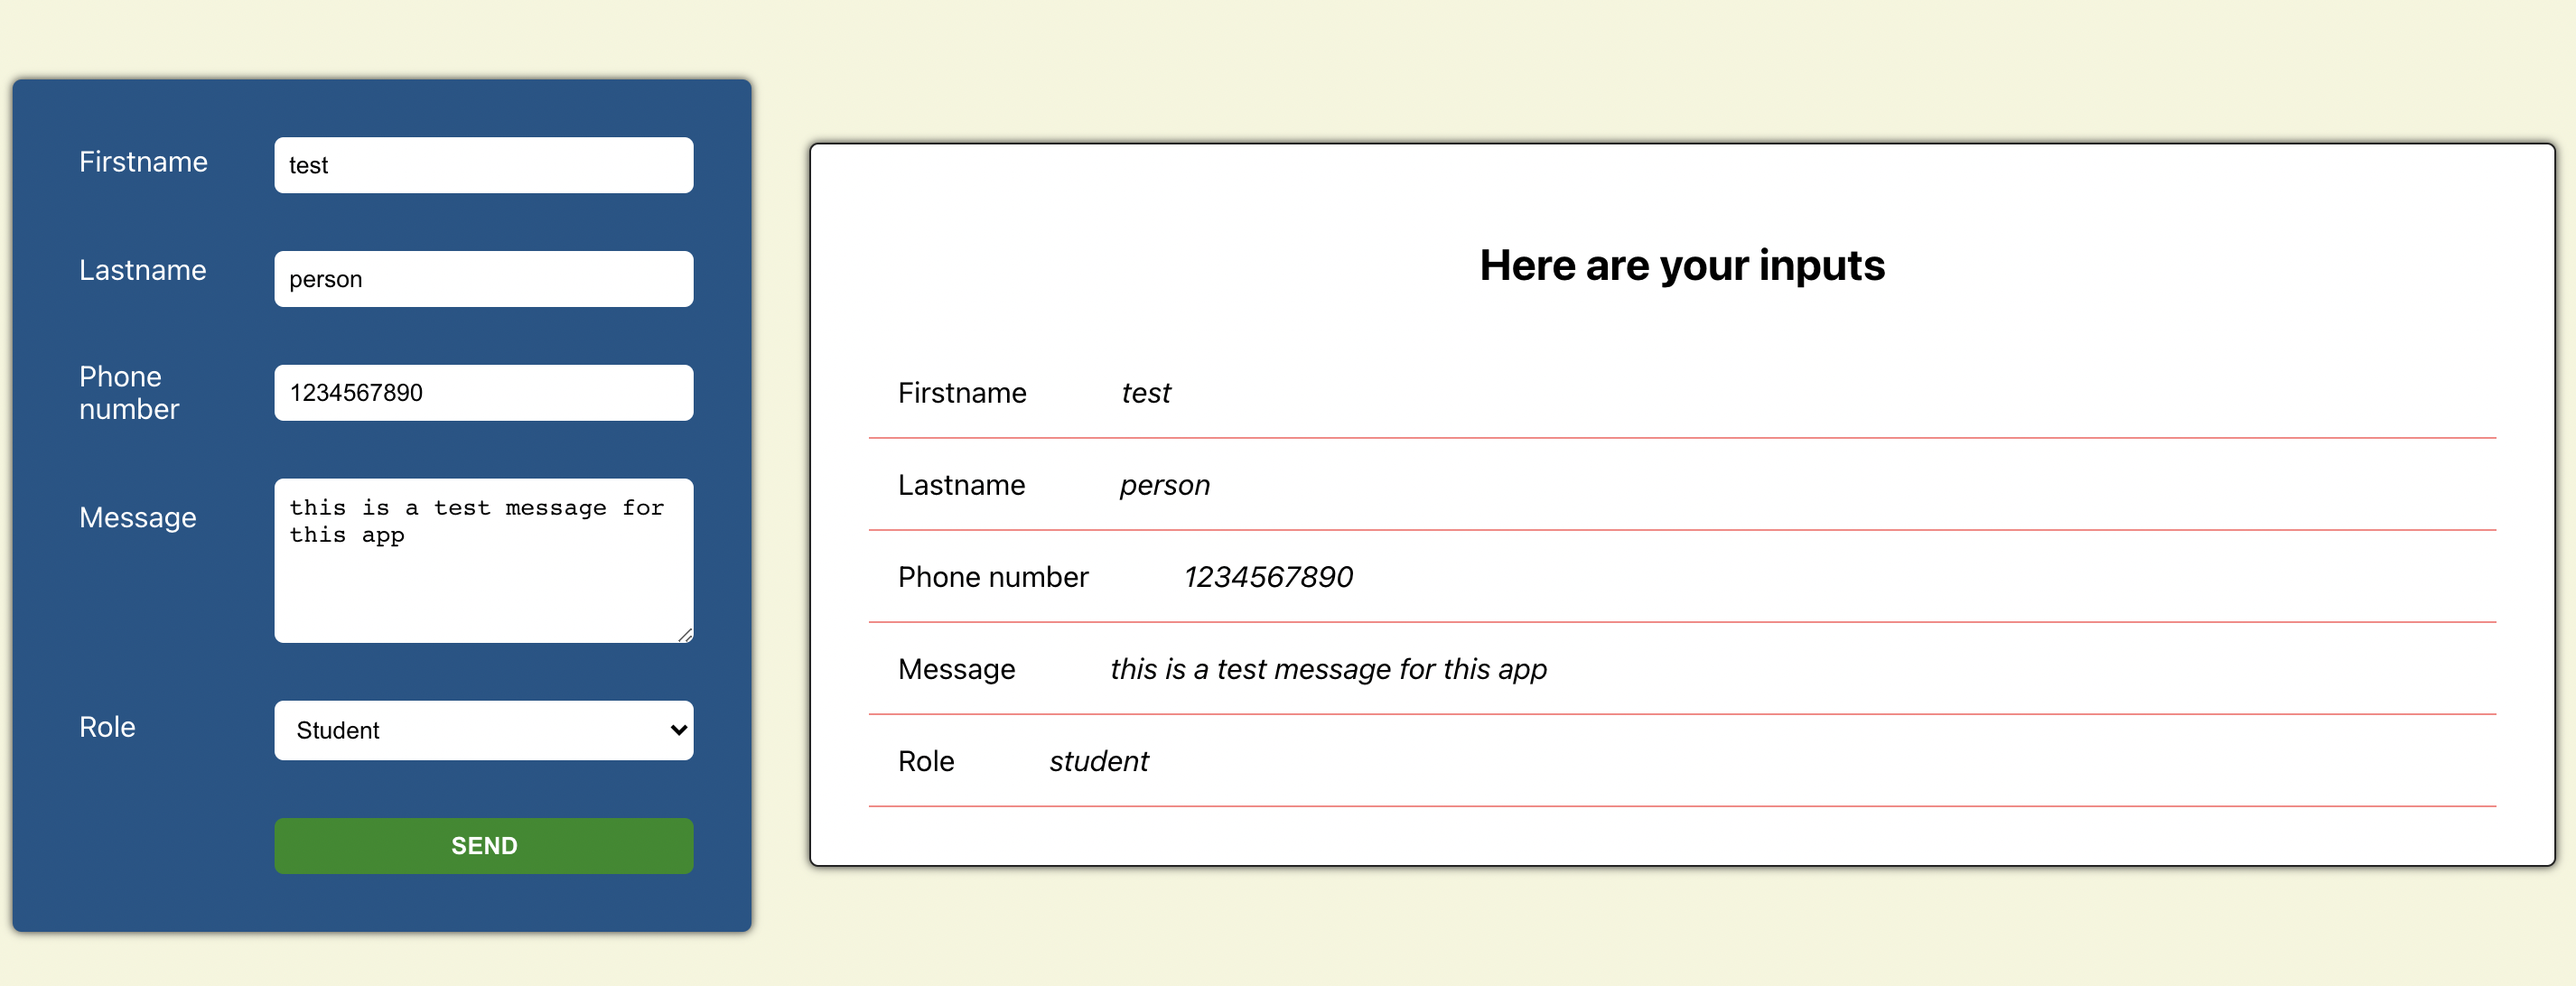
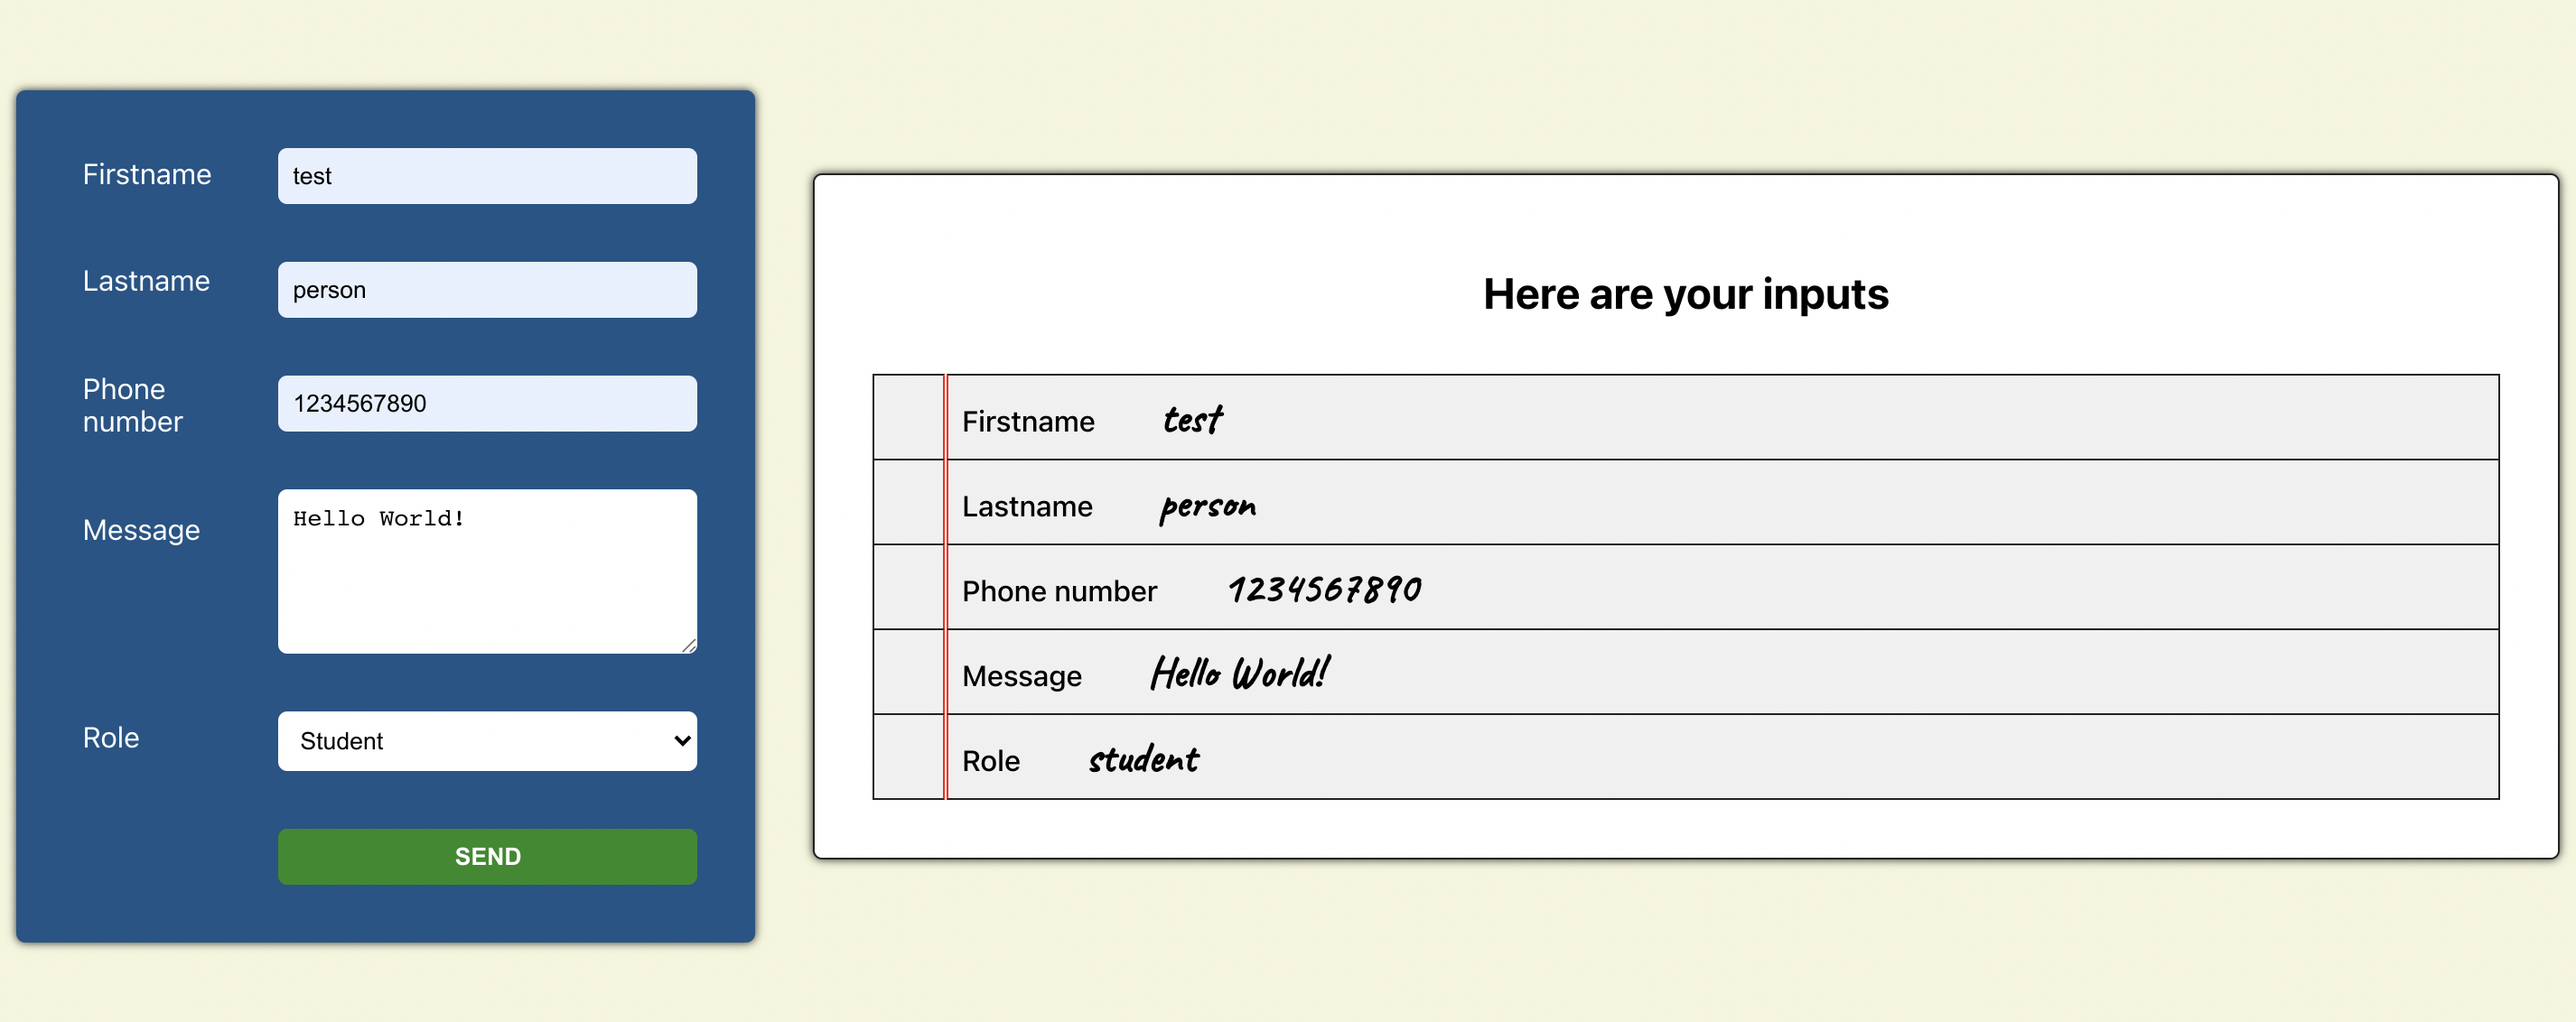
added new screenshot and modified layouts

diff --git a/src/App.css b/src/App.css
@@ -38,7 +38,7 @@ form {
 .inputs input,
 textarea,
 select,
-#submit {
+button {
 	min-width: 15vw;
 	margin: 1rem;
 	padding: 0.5rem;
@@ -46,7 +46,7 @@ select,
 	border-style: none;
 }
 
-#submit {
+button {
 	width: 88%;
 	margin-left: 1rem;
 	padding: 0.5rem;
@@ -59,7 +59,7 @@ select,
 	transition: 0.2s ease-in-out;
 }
 
-#submit:hover {
+button:hover {
 	background-color: rgb(84, 168, 84);
 }
 
@@ -74,19 +74,34 @@ select,
 }
 
 .View h2 {
-	margin-bottom: 2rem;
+	margin-bottom: 5rem;
 	display: block;
 	text-align: center;
 }
 
-.View p {
-	border-bottom: 1px solid rgb(255, 132, 132);
-	padding: 1rem;
-	margin: 0;
+.notebook div {
+	display: flex;
+	background-color: rgb(240, 240, 240);
+}
+
+.notebook div .line {
+	border: 1px solid #222;
+	border-right: 1px solid red;
+	width: 40px;
+	margin: -1px 1px 0 0;
+}
+
+.notebook div p {
+	border: 1px solid #222;
+	border-left: 1px solid red;
+	padding: 0.5rem;
+	margin: -1px 0 0 0;
+	width: 100%;
+	font-weight: 500;
 }
 
 span {
-	margin: 0 3rem;
+	margin: 0 2rem;
 	font-weight: 600;
 	font-size: 1.5rem;
 	font-family: "Caveat", cursive;
@@ -110,33 +125,31 @@ span {
 }
 
 .popup-wrapper {
-	width: 30%;
+	width: 40%;
 	background-color: white;
 	border: 1px solid #222;
 	border-radius: 5px;
 	padding: 2rem;
 }
 
-.popup-header {
+.popup-content {
+	margin: 3rem 1rem;
+}
+
+.buttons {
 	display: flex;
 	justify-content: space-between;
 }
 
-#close-btn {
-	margin: 0 1rem;
-	padding: 0 1rem;
-	border: none;
-	border-radius: 5px;
-	background-color: rgb(253, 80, 80);
-	cursor: pointer;
-	font-weight: 600;
-	transition: 0.2s ease-in-out;
+.buttons button {
+	padding: 0.7rem;
+	text-transform: uppercase;
 }
 
-#close-btn:hover {
-	background-color: rgb(255, 153, 153);
+.buttons button:last-child {
+	background-color: rgb(146, 146, 146);
 }
 
-.popup-content {
-	margin-top: 3rem;
+.buttons button:last-child:hover {
+	background-color: rgb(180, 180, 180);
 }

diff --git a/src/components/View.js b/src/components/View.js
@@ -2,21 +2,38 @@ function View(props) {
 	return (
 		<div className="View">
 			<h2>Here are your inputs</h2>
-			<p>
-				Firstname <span>{props.firstname}</span>
-			</p>
-			<p>
-				Lastname <span>{props.lastname}</span>
-			</p>
-			<p>
-				Phone number <span>{props.number}</span>
-			</p>
-			<p>
-				Message <span>{props.message}</span>
-			</p>
-			<p>
-				Role <span>{props.role}</span>
-			</p>
+			<div className="notebook">
+				<div>
+					<span className="line"></span>
+					<p>
+						Firstname <span>{props.firstname}</span>
+					</p>
+				</div>
+				<div>
+					<span className="line"></span>
+					<p>
+						Lastname <span>{props.lastname}</span>
+					</p>
+				</div>
+				<div>
+					<span className="line"></span>
+					<p>
+						Phone number <span>{props.number}</span>
+					</p>
+				</div>
+				<div>
+					<span className="line"></span>
+					<p>
+						Message <span>{props.message}</span>
+					</p>
+				</div>
+				<div>
+					<span className="line"></span>
+					<p>
+						Role <span>{props.role}</span>
+					</p>
+				</div>
+			</div>
 		</div>
 	);
 }

diff --git a/src/components/Popup.js b/src/components/Popup.js
@@ -4,12 +4,7 @@ const Popup = (props) => {
 	return (
 		<div className={props.showPopup ? "Popup active" : "Popup"}>
 			<div className="popup-wrapper">
-				<div className="popup-header">
-					<h3>Your inputs</h3>
-					<button id="close-btn" onClick={() => window.location.reload()}>
-						Close
-					</button>
-				</div>
+				<h2>Your note</h2>
 				<div className="popup-content">
 					<p>
 						Firstname: <span>{props.firstname}</span>
@@ -26,6 +21,12 @@ const Popup = (props) => {
 					<p>
 						Role: <span>{props.role}</span>
 					</p>
+				</div>
+				<div className="buttons">
+					<button onClick={() => window.location.reload()}>Yes I'm sure</button>
+					<button onClick={props.closePopupHandler}>
+						No I don't want to post it
+					</button>
 				</div>
 			</div>
 		</div>

diff --git a/src/App.js b/src/App.js
@@ -27,6 +27,12 @@ class App extends Component {
 		});
 	};
 
+	closePopupHandler = () => {
+		this.setState({
+			showPopup: false,
+		});
+	};
+
 	render() {
 		return (
 			<div className="App">
@@ -44,6 +50,7 @@ class App extends Component {
 				<Popup
 					showPopup={this.state.showPopup}
 					showPopupHandler={this.showPopupHandler}
+					closePopupHandler={this.closePopupHandler}
 					firstname={this.state.firstname}
 					lastname={this.state.lastname}
 					number={this.state.number}
